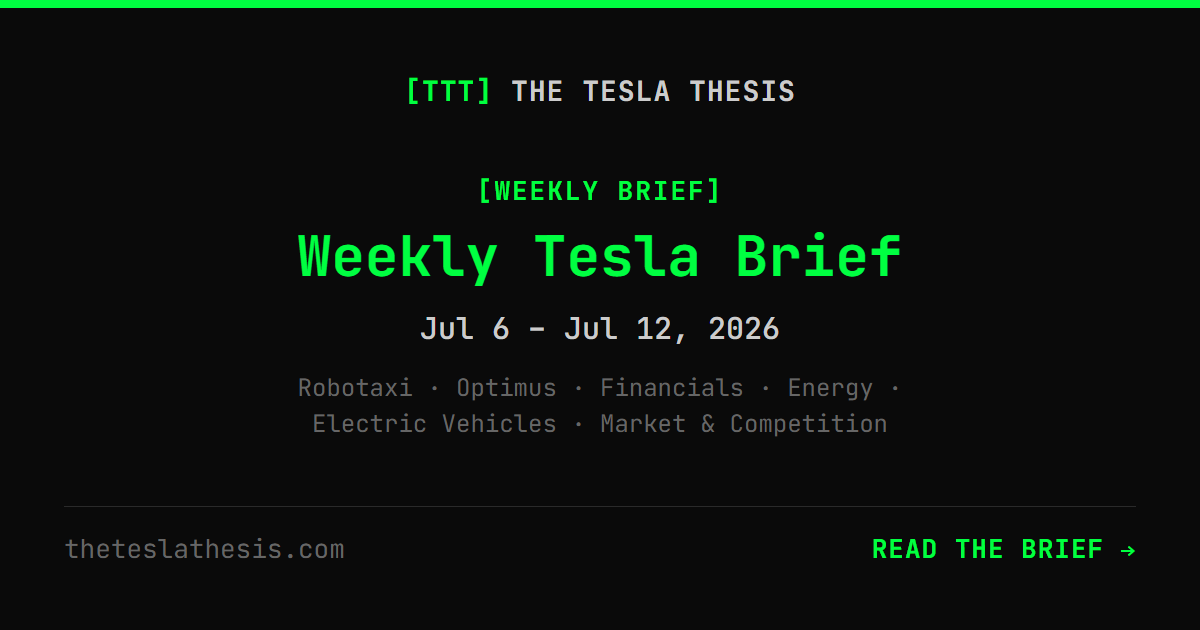
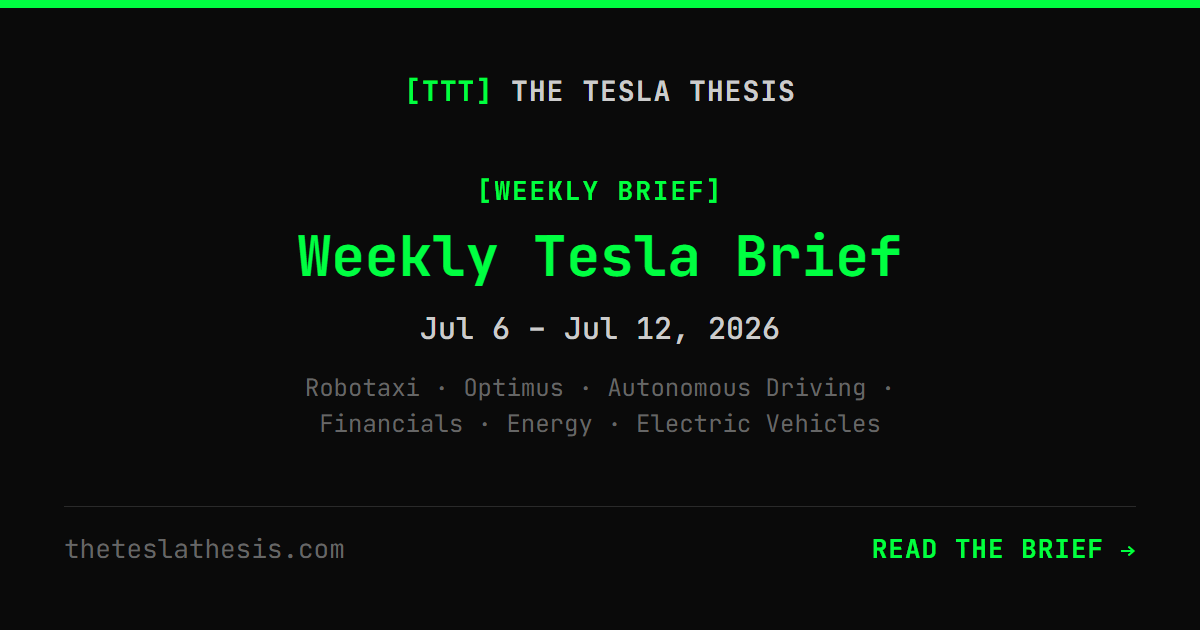
Weekly brief 2026-07-13: regenerated with continuation discipline, manual dedup pass

Changed region(s): [[0.2467, 0.6635, 0.74, 0.6937], [0.2467, 0.6032, 0.74, 0.6333]]

diff --git a/data/reddit-weekly/2026-07-13.md b/data/reddit-weekly/2026-07-13.md
@@ -1,9 +1,8 @@
 Target sub:  r/teslainvestorsclub
-Generated:   2026-07-13 05:46:00 UTC
+Generated:   2026-07-13 07:49:53 UTC
 Source:      20260713_ttt_99_weekly_brief_summary.txt
 Mode:        deterministic-format (no LLM)
-Variant A:   1043 chars excl. link (r/teslainvestorsclub minimum: 1000 when body text present)
->> TODO:     OG card public/og/weekly-2026-07-13.png not in repo yet — before posting Variant A, run "npm run og-images", commit + push the PNG, wait for deploy (else the embed shows the generic site card)
+Variant A:   1247 chars excl. link (r/teslainvestorsclub minimum: 1000 when body text present)
 ────────────────────────────────────────────────────────────
 
 # VARIANT A — link-embed post (deep-link experiment)
@@ -20,13 +19,13 @@ https://theteslathesis.com/w/2026-07-13/
 
 This week:
 
-- Q2 deliveries hit 480-481K, crushing consensus estimates — yet TSLA still fell 4-8% on report day. Classic sell-the-news, and a signal deliveries alone no longer move the stock.
-- Miami went unsupervised robotaxi on July 3, but field testers found only 2-4 active vehicles and multi-hour waits — a tiny beta despite the "unsupervised" headline.
-- Tesla teased Cybercab "employee rides" at Giga Texas — but it's a parking-lot crossing, not public paid rides. Electrek calls it not meaningful yet.
-- Optimus Fremont line is installing on the old Model S/X floor; Giga Texas Optimus factory steel is visibly rising, targeting up to 10M units/year long-term.
-- Tesla's AI5 chip reached tape-out at Samsung on a 2nm process, bound for the Taylor, TX fab — no mass-production date yet.
-- Megapack orders topped $9B / 43 GWh in just six weeks — nearly matching a full prior year of deployments.
-- NHTSA's chief said he'd "absolutely" consider dropping the steering-wheel mandate entirely — a direct tailwind for the wheel-free Cybercab.
+- Miami's unsupervised Robotaxi is live but beta-scale — field testers found only 2-4 active vehicles, multi-hour waits, and a geofence roughly 15% of Waymo's coverage. Model Y only, no Cybercabs yet.
+- Tesla teased Cybercab "employee rides" at Giga Texas — a driverless parking-lot crossing, not public paid service — while "well over 100" finished Cybercabs sit stacked awaiting software.
+- Analysts hiked targets on the Q2 delivery beat: RBC to $500 pricing in a 25-30% SpaceX-merger premium, UBS to $442 on physical-AI upside, Baird at $522.
+- New Jersey bill S.1677/A.3968 would require cameras plus two extra sensor types on AVs — effectively banning Tesla's camera-only Robotaxi while leaving Waymo's LiDAR setup untouched.
+- Fremont's Model S/X lines are being torn out for Optimus production — tooling from Tesla Automation in Germany needs 1-2 weeks of validation per line, across 40+ sublines.
+- Megapack bookings topped $9B (43+ GWh) in six weeks — nearly a full year of prior deployments — including a new $3B, 15+ GWh Esyasoft order spanning the UK, Europe, GCC, and India.
+- Tesla's AI5 chip reached tape-out at Samsung Foundry on a 2nm process, headed for the Taylor, TX fab — no mass-production timeline confirmed yet.
 
 
 ────────────────────────────────────────────────────────────
@@ -41,71 +40,71 @@ Weekly Tesla Brief (Jul 6 – Jul 12, 2026)
 
 ## Brief from [theteslathesis.com](https://theteslathesis.com) — see the site for daily news summaries
 
-- Q2 deliveries: 480-481K, beat consensus, stock fell ~4-8% anyway
-- Miami unsupervised Robotaxi launch, fewer safety drivers than Austin
-- Cybercab "employee rides" teased at Giga Texas, no public launch
-- Optimus Fremont line installing, factory steel rising near Giga Texas
+- Miami unsupervised Robotaxi live, but only 2-4 vehicles active
+- Cybercab "employee rides" teased at Giga Texas, not a public launch
+- Analysts hike targets: RBC $500, UBS $442, Baird $522
+- New Jersey bill would effectively ban Tesla's camera-only Robotaxis
+- Fremont Model S/X lines torn out for Optimus production
+- Megapack bookings top $9B across six weeks, ~43 GWh
 - AI5 chip reaches tape-out at Samsung on 2nm process
-- Megapack bookings top $9B / 43 GWh in six weeks
-- NHTSA chief open to dropping steering-wheel mandate entirely
 
 ---
 
 ## Robotaxi
 
-- **Miami went unsupervised July 3**, Tesla's fourth city with driverless operation, using a notably smaller pre-launch safety-driver footprint than Austin's 300+. Field testers found only 2-4 active vehicles, multi-hour wait times, and a geofence roughly 15% the size of Waymo's coverage — early-beta scale despite the "unsupervised" label. Electrek separately reports Austin's unsupervised subset has contracted from a ~25 peak to ~14 active cars.
-- **Tesla teased Cybercab "employee rides" at Giga Texas on July 10** — a driverless Cybercab crossing the outbound parking lot, with no confirmed scope beyond a campus loop. Electrek's Fred Lambert calls it not meaningful until Cybercab does unsupervised paid rides on public streets, which he speculates could land around earnings. "Well over 100" finished Cybercabs are stacked at the outbound lot, suggesting hardware is ready while software remains the bottleneck.
-- **Tesla's 2025 Impact Report formalized Cybercab as the primary Robotaxi vehicle**: ~165 Wh/mile efficiency, ~4,000 parts (vs. ~10,000 for Model Y), reaction-injection-molded panels replacing a paint shop, and a two-seat layout matching the 85%+ of ride-hail trips carrying two or fewer riders. Tesla claims nearly half the emissions per mile versus a Model 3/Y ride.
-- **Tesla's supervised Austin fleet is crashing at roughly 4x the human rate** (~1 per 57,000 miles vs. ~1 per 229,000 human benchmark), per Electrek — a data point that cuts against the safety narrative even as deployment expands.
-- **NHTSA head Jonathan Morrison said the agency will "absolutely" consider dropping steering-wheel requirements** for vehicles never meant to be human-driven, calling the current mandate senseless — a direct regulatory tailwind for the wheel-free Cybercab design.
+- **Miami unsupervised launch confirmed by Tesla but scale remains tiny.** Ashok Elluswamy confirmed full driverless operation, with footage showing cars handling rain on day one. But field testers found only 2-4 active vehicles, multi-hour wait times, and a geofence roughly 15% of Waymo's coverage area; none of the observed cars carried official Cybercab badging — the fleet is still Model Y.
+- **Tesla teased Cybercab "employee rides" at Giga Texas starting July 10**, showing a driverless Cybercab (no wheel, no pedals) crossing the outbound parking lot — but scope is unclear and this is not the same as Cybercab joining the paid Austin fleet. Electrek's Fred Lambert says it isn't meaningful news until a Cybercab does unsupervised paid rides on public streets, which he speculates could land around earnings.
+- **Cybercab inventory keeps building: "well over 100" units stacked at the Giga Texas outbound lot per Electrek**, suggesting hardware is ready while software remains the bottleneck — Tesla has acknowledged FSD needs a "ground-up rewrite" to scale to unsupervised operation. A Chicago filming permit and two Cybercabs delivered near Wrigleyville point to further staging ahead of a possible new-market test.
+- **Interior specs surfacing ahead of deployment:** Cybercab carries a ~21-inch display (vs. Model 3's 15.4-inch) with app-controlled cabin airflow and temperature. Bhakdi says Tesla is range-bound until "tangible Cybercab deployment news," calling the eventual jump from 1,000 to 10,000 units "very marginal" once scaling begins.
 
 ---
 
 ## Optimus
 
-- **Fremont's first Optimus production line is installing on the former Model S/X floor**, with the old lines being torn out to make room; ~40 more sublines remain, each requiring one to two weeks of validation, per Lars Moravy. Low-volume output is suggested possible by Q4.
-- **Giga Texas Optimus factory steel is actively rising**, targeting a footprint just under the main car plant and eventual capacity up to 10 million units/year (a separate Fremont-specific figure cites 1 million/year). Tesla has otherwise gone largely quiet on Optimus for months, prompting speculation about schedule slippage versus a differentiated technical path.
-- **Competitor 1X unveiled a new tendon-driven hand** (25 DOF, IP68, food-safe, tactile slip-sensing, 8 m/s finger speed), with 10,000 hands/year target capacity — a direct competitive benchmark as China ships an estimated ~90% of world humanoid volume today.
-- **Early qualitative signal: Optimus vacuum-robot feature appears operational** per shared media, though no technical details were disclosed. Supply chain localization continues in Texas, with Optimus batteries sourced on-campus and lithium from Corpus Christi.
+- **Fremont's Model S/X production lines are being physically torn down to install Optimus manufacturing equipment**, with tooling arriving from Tesla Automation in Germany requiring one to two weeks validation per line across 40+ lines — a firmer timeline detail than prior "line 1 installed" reporting.
+- **Optimus factory near Giga Texas under active steel construction**, targeting up to 10 million units/year per brighterwithherbert, though a separate report ties a 1 million/year figure specifically to Fremont retooling — the two capacity claims remain unreconciled.
+- **Competitor 1X unveiled a new tendon-driven hand:** 25 degrees of freedom, IP68-rated, food-safe, tactile slip-sensing, 8 m/s finger speed, hundreds already built toward a 10,000 hands/year target — a direct competitive benchmark as Tesla stays "radio silent" on Optimus hand progress for months.
+- **China ships roughly 90% of the world's humanoid robots today**, per Peter Diamandis; Musk responded "For now." Tesla's Optimus vacuum-robot feature shown working in shared media, an early qualitative capability signal with no technical detail disclosed.
 
+---
+
+## Autonomous Driving
+
+- **FSD V14 Lite began international rollout to HW3 owners in South Korea** — the version's first expansion outside North America, where most HW3 owners still lack it.
+- **NHTSA chief Jonathan Morrison said the agency will "absolutely" consider dropping steering-wheel requirements** for vehicles never meant to be human-driven, calling the current mandate senseless — a direct regulatory tailwind for the wheel-free Cybercab.
 ---
 
 ## Financials
 
-- **Q2 2026 deliveries: 480,126–481,000 units, beating consensus (~406,000–460,000 depending on source), Tesla's best-ever Q2.** Inventory overhang fell from ~50,000 entering the quarter to ~20,000 exiting it. Despite the beat, shares fell roughly 4-8% on report day, a "sell the news" reaction multiple hosts flagged as notable.
-- **Analyst targets rose across the board**: RBC to $500 (from $475), explicitly building in a 25-30% premium tied to SpaceX-merger speculation; UBS to $442 (from $364) citing physical-AI potential; JPMorgan reiterated Neutral at $475; Baird set $522.
-- **AI5 chip reached tape-out at Samsung Foundry** on a 2nm process, destined for the Taylor, Texas fab for integration into "Tesla's newest products" — no mass-production timeline confirmed.
-- **Tesla capped internal AI token spend at $200/week per engineer**, reversing a prior free-for-all era, with exceptions requiring approval.
+- **Analyst reaction to last week's Q2 delivery beat landed this week.** RBC raised its target to $500 (from $475), explicitly pricing in a 25–30% premium tied to a possible SpaceX merger; UBS raised to $442 (from $364) citing physical AI/robotics upside; Baird set $522 citing the delivery beat and 41% YoY energy storage growth.
+- **AI5 chip reached tape-out at Samsung Foundry** per a Samsung Principal Engineer, to be built at the Taylor, Texas fab on Samsung's 2nm process for "Tesla's newest products" — no mass-production timeline confirmed.
 
 ---
 
 ## Energy
 
-- **Tesla logged over $9 billion in new Megapack orders across six weeks (43+ GWh)** — comparable to a full trailing-12-month deployment total of ~49 GWh — including a new $3B Esyasoft order for 15+ GWh across the UK, Western Europe, GCC, and India.
-- **Tesla launched "Tesla Home,"** consolidating solar, Powerwall, Wall Connector, and smart-breaker control into one AI-driven app built on the existing Opticaster engine — a UI/rebrand exercise rather than new hardware, per Electrek.
+- **Megapack bookings topped $9 billion across six weeks, more than 43 GWh** — comparable to nearly a full year of prior storage deployment (49 GWh trailing 12 months) — including a new $3B Esyasoft order (15+ GWh across UK, Western Europe, GCC, India) alongside the previously disclosed NatPower deal.
+- **Tesla launched "Tesla Home,"** consolidating solar, Powerwall, Wall Connector, and smart-breaker control into one AI-driven app built on the existing Opticaster engine — Electrek frames it as a UI rebrand rather than a new product.
 
 ---
 
 ## Electric Vehicles
 
-- **Model Y was China's best-selling passenger vehicle across all fuel types in June** (38,654 retail registrations) and the Netherlands' best-seller across all fuel types in H1, despite pricing above every other top-10 China model.
-- **Model Y Launch Series (Model Y L) is building exclusively at Giga Texas**, not Fremont, with North American deliveries expected to begin September 2026; Fremont capacity is partly constrained by space reallocated to the new Optimus line.
+- **Model Y was China's best-selling vehicle across all fuel types in June** (38,654 retail registrations) despite pricing above every other top-10 model; it also topped the Netherlands' H1 sales across all fuel types.
 - **Tesla's rental program is expanding to seven states** (California, Maryland, Pennsylvania, Arizona, Kansas, Washington, Florida) at $60/day for Model 3/Y with free Supercharging and FSD included.
+- **Model Y L now in production at Giga Texas**, North American deliveries expected September 2026.
 
 ---
 
 ## Market & Competition
 
-- **New Jersey bill S.1677/A.3968 would require AVs to use cameras plus two additional sensor types**, effectively barring Tesla's camera-only Robotaxi while leaving Waymo unaffected; backers include Teamsters and a group whose campaign director previously led Tesla Takedown.
-- **Grok 4.5 launched** (1.5T parameters), scoring competitively with Anthropic's Opus tier on coding benchmarks at roughly one-tenth the cost; Musk publicly reversed his stance on Anthropic, calling it the current AI leader.
-- **Waymo suffered a high-profile SF operational failure over July 4th weekend** — vehicles froze at intersections, some required 3-4 hour tows for dead batteries, others were vandalized — while still operating under 4,000 cars after roughly six years. Waymo separately expanded fully driverless testing to Las Vegas, San Diego, Denver, and Tampa.
+- **Grok 4.5 launched** (1.5T parameters, up from ~500B), scoring 54 vs. 38 for Grok 4.3 on the Artificial Analysis Intelligence Index, priced at $2/$6 per million tokens versus Claude's $10/$50 — Musk claims performance "close to, perhaps exceeding" Anthropic's Opus, while separately walking back prior criticism of Anthropic, calling them "currently the leader in AI."
+- **Tesla-SpaceX merger debate resurfaces with no new resolution:** bull case cites Musk's ~85% SpaceX voting control; bear case flags a combined entity could reach $3-4 trillion market cap, potentially capping further multiple expansion.
 
 ---
 
 ## Bear Case of the Week
 
-- **Tesla stock fell despite record deliveries.** Q2's 480-481K unit beat was followed by a ~4-8% share decline across the reporting period, a pattern multiple hosts read as evidence that delivery beats alone no longer move the stock absent tangible Robotaxi scaling.
-- **Cybercab "employee rides" announcement is thinner than it appears.** Electrek's Fred Lambert notes the July 10 tease is a parking-lot crossing at Giga Texas, not unsupervised paid rides on public streets — the real milestone remains unmet.
-- **Austin's unsupervised fleet is contracting, not growing.** Electrek reports the unsupervised subset down to ~14 active cars from a ~25 peak, even as the city-cited total fleet sits around only 50 vehicles.
-- **Tesla's own safety data shows elevated crash rates.** The supervised Austin robotaxi fleet is crashing at roughly 4x the human benchmark rate (~1 per 57,000 miles vs. ~1 per 229,000), per Electrek — a direct tension with Tesla's Impact Report safety claims.
-- **New Jersey's proposed sensor-mandate bill would effectively exclude Tesla's camera-only Robotaxi** from the state while leaving Waymo unaffected, continuing a pattern of state-level regulatory friction specifically targeting Tesla's architecture.
+- **Austin's supervised robotaxi fleet crashes at roughly 4x the human rate** (~1 per 57,000 miles vs. ~229,000 miles human benchmark), per Electrek.
+- **New Jersey bill S.1677/A.3968 would require AVs to carry cameras plus two additional sensor types** (e.g., LiDAR, radar), effectively banning Tesla's camera-only Robotaxi while leaving Waymo unaffected; backers include the Teamsters and a group whose campaign director previously led Tesla Takedown.
+- **Combined Q2 Cybertruck/Model S/X/Semi deliveries totaled just 12,364 units** — "not what you do with a production line built for a quarter million a year" (Randy Kirk), though order backlogs stretching to January suggest deliberate pacing rather than a demand collapse.
